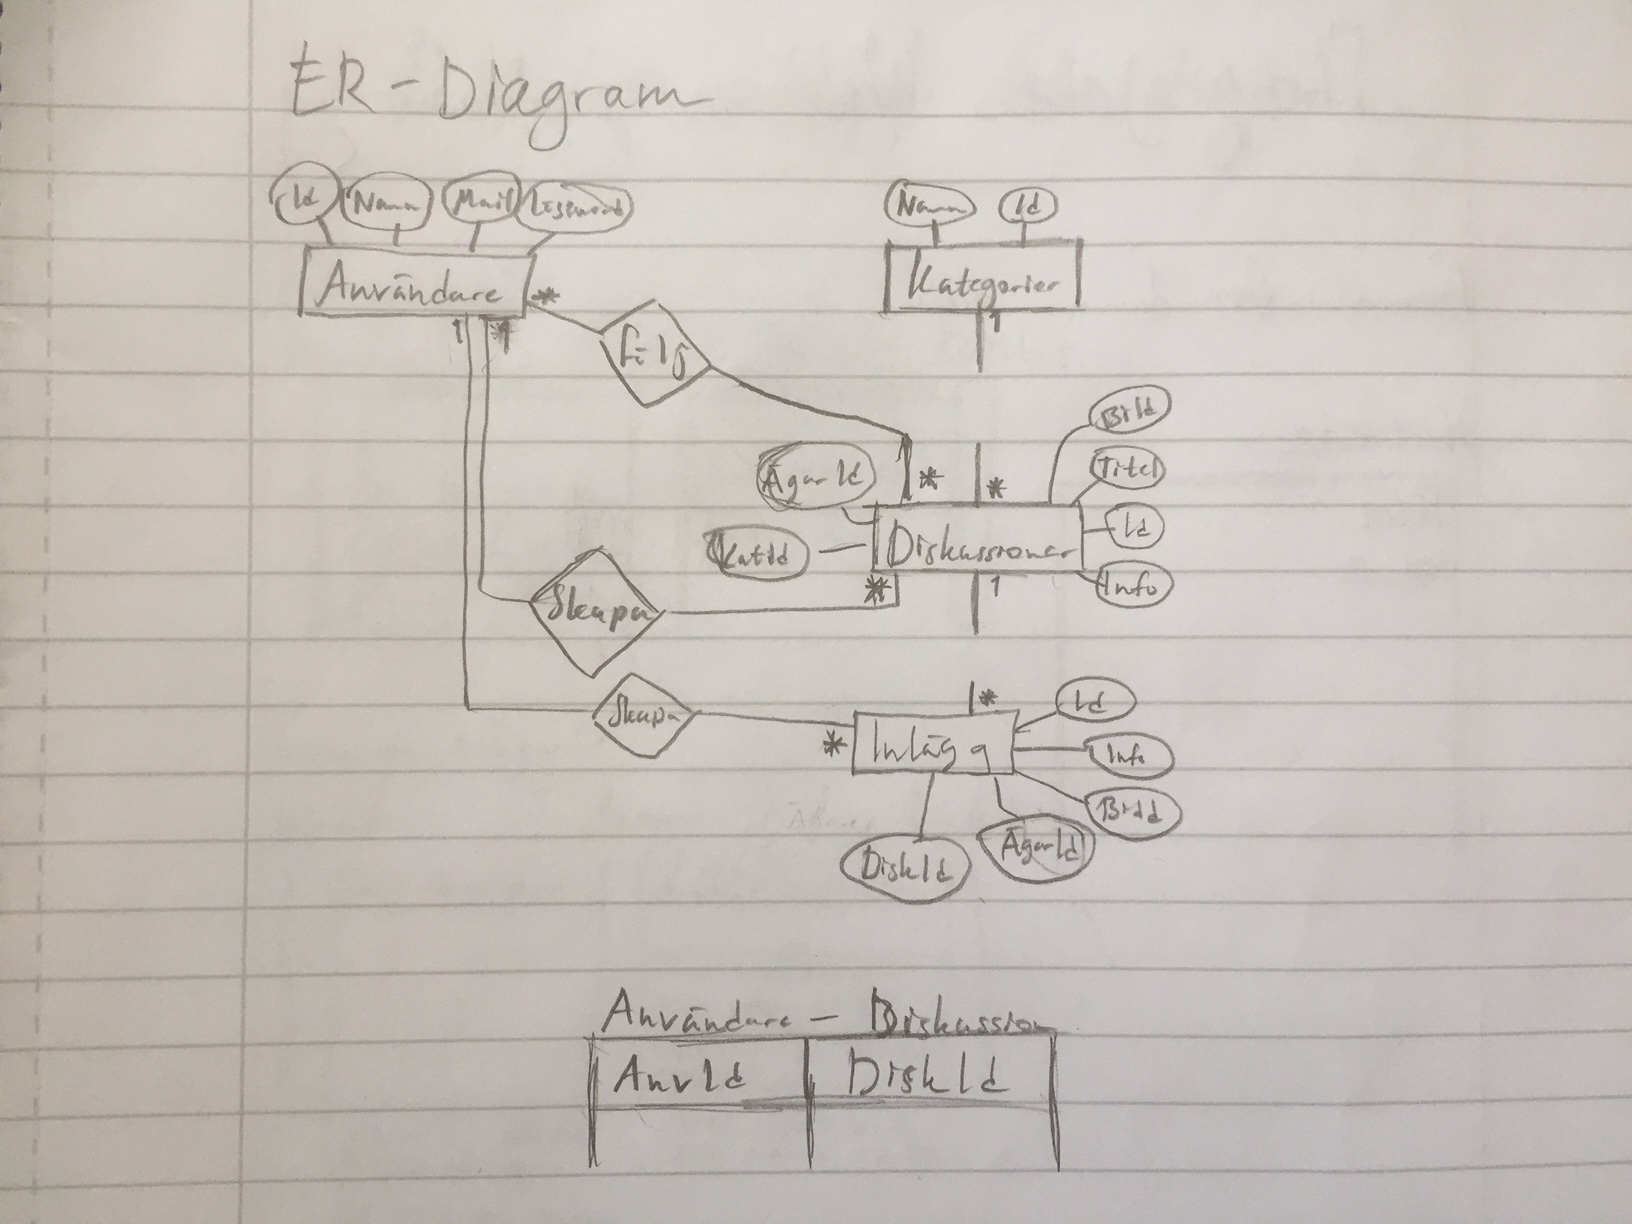
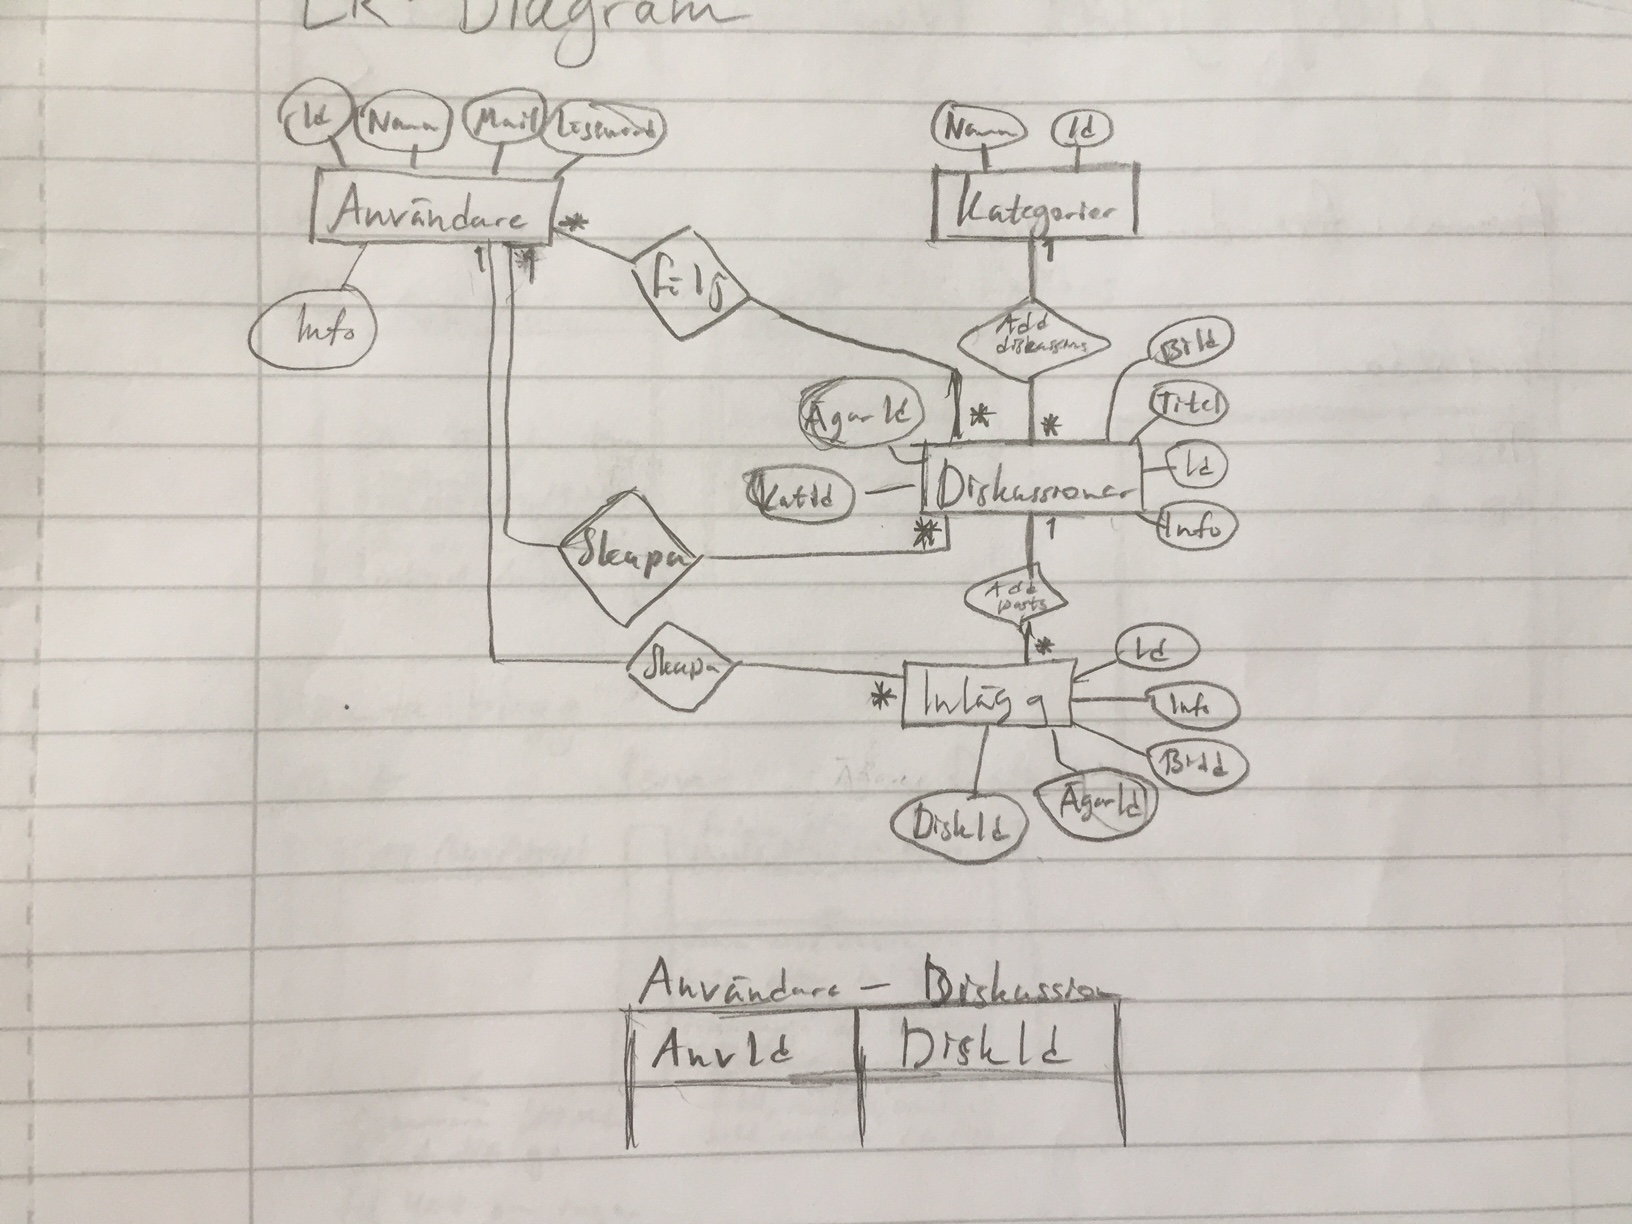
Funktionalitet skriven och små ändringar för registrering.

diff --git a/forumsida/model.rb b/forumsida/model.rb
@@ -83,7 +83,10 @@ end
 
 def register(params)
     db = connect()
-    if params["Username"] != "" && params["Password"] != "" && params["Mail"] != ""
+    if params["Username"] != "" && params["Password"] != "" && params["Mail"] != "" && params["Password"] == params["Password2"]
+        if db.execute('SELECT Id FROM Användare WHERE Namn=?, Mail=?', params["Username"], params["Mail"]) != []
+            return false
+        end
         db.execute('INSERT INTO Användare(Namn, Lösenord, Mail) VALUES (?, ?, ?)', params["Username"], BCrypt::Password.create(params["Password"]), params["Mail"])
         return true
     else

diff --git a/README.md b/README.md
@@ -13,7 +13,7 @@ hela sidan först
 * Hem: Den första sidan som man möts av när man surfar in. Här kan man nå inloggningssidan om man ej är inloggad, sin profilsida om man har loggat in samt även en sida där man kan hitta alla kategorier av diskussioner. Misslyckas man med att logga in skickas man till en ny inloggninssida, där en text som beskriver att inloggningen misslyckades visas.
 * Från inloggningssidan kan man dels logga in om man har ett konto eller ta sig till registreringssidan om man inte har ett konto.
 * På registreringssidan skriver man in sitt önskade användarnamn, sin email och sitt lösenord för att skapa ett konto. När man gjort det skickas man tillbaka till hem vyn, om registreringen lyckas.
-* På profilsidan kan man dels se alla sina kontouppgifter och även redigera dem om man är inloggad. Här kan man lägga in en liten beskrivning om sig själv så att andra användare vet vem man är. Alla användare kan kolla på varandras profilsidor, däremot kan man endast redigera sin egna. Lösenordet visas ej på denna sida.
+* På profilsidan kan man dels se alla sina kontouppgifter och även redigera dem om man är inloggad. Här kan man lägga in en liten beskrivning om sig själv så att andra användare vet vem man är. Alla användare kan kolla på varandras profilsidor, däremot kan man endast redigera sin egna. Lösenordet visas ej på denna sida. Profilen redigerar man från en separat sida.
 * Från profilsidan kan man nå en sida som visar alla diskussioner som man följer. Dessa är också länkade, och här kan man också välja att sluta följa de diskussioner man vill.
 * På kategorisidan visas alla typer av kategorier som diskussioner kan ordnas efter. Användare kan inte skapa nya kategorier.
 * När man surfat in på en kategori visas alla diskussioner som finns i denna, med deras respektive ägares profilsidor länkade. Användare kan skapa nya diskussioner som har en titel, lite information om diskussionen och eventuellt en bild. 
@@ -21,9 +21,14 @@ hela sidan först
 * För att redigera diskussionen skickas man till en ny sida där man fyller i ett formulär som liknar det som behövs för att skapa en ny diskussion. Om man inte ändrar på något så behålls det som det var.
 * För att redigera inlägg skickas man också till en ny sida där man fyller i ett formulär. Likväl så ändras inte inlägget om ingen ny information skrivs.
 
-## 3. Funktionalitet (med sekvensdiagram)
-
-För att säkerställa att lösenord inte blir knäckta använder jag mig av ruby biblioteket bcrypt. Detta konverterar insatta 
+## 3. Funktionalitet (med sekvensdiagram i misc för registrering och inlägg)
+* Inloggningssystem: Vid inloggning så skickar man sitt användarnamn och lösenord till servern. Servern jämför användarnamnet och det hashade lösenordet (görs med bcrypt biblioteket i ruby) med det som är sparat i databasen. Om det matchar skickas man till hemvyn och användarnamnet samt användarens id sparas i sessioner. Misslyckas det så får man försöka igen på en sida där det står att inloggning misslyckades.
+* Registrering: När man registrerar så skickar man sitt önskade användarnamn, lösenord (repeterat två gånger i separata fält) samt sin mailaddress. Om alla fält inte är ifyllda så registreras man inte. Sedan kollar servern om kontot redan är registrerat genom att försöka hämta ett användarid som är kopplat till det inskickade användarnamnet och mailaddressen. Om det ger ett resultat reistreras inte kontot. Om det inte ger ett resultat registreras användaren och skickas till inloggningssidan.
+* Utloggning: Från hemvyn så kan man klicka på en knapp som loggar ut en ifall man är inloggad. När detta sker så sätts användarnamnet och användarid i sessionen till nil.
+* Uppdatering av profil: Direkt från sin egna profilsida så kan man skicka in lite information om sig själv ifall man vill ge en beskrivning (denna kan vara tom). Är man inte inloggad, eller inte inne på sin egen profil, så visas formuläret ej. Stämmer det användarid som är sparat i sessionen överrens med profilen som man uppdaterars användarid så uppdateras databasen. Annars ges felkoden 403 (forbidden action). Från profilsidan kan man även ta sig till en sida där man kan uppdatera sitt lösenord, mailaddress eller användarnamn. Man behöver inte skicka in alla samtidigt, uppdaterar man exempelvis endast lösenordet så uppdateras bara detta i databasen. För att göra en uppdatering behöver man skriva in sitt nuvarande lösenord längst ned i formuläret. Är man inte inloggad eller försöker ändra en annan användares inloggninsuppgifter så ges felkod 403.
+* Följ diskussion: När man är inne på en diskussion så kan man klicka i en knapp för att följa den. Då skickas ens användarid och diskussionens id (där man befinner sig) in i databasen, vilket kopplar diskussionens id till ens användarid. Är man inte inloggad går detta ej att genomföra. Från ens profilsida kan man nå alla diskussioner som man följer. Härifrån kan man även sluta följa diskussioner, vilket då tar bort kopplingen mellan den aktuella diskussionens id och användarid i databasen.
+* Diskussioner: När man skapar en diskussion behöver man ge den en titel och lite information om den. Eventuellt kan man även lägga till en bild till diskussionen. Är man inloggad så skapas då diskussionen. Om man är inne på en diskussion som man själv lagt upp så kan man ta bort den därifrån. Är man inte inloggad på rätt konto när man försöker ta bort en diskussion ges felkod 403. Från en diskussion så kan man även nå profilen till ägaren av diskussionen. Om en diskussion raderas så raderas även alla inlägg till denna diskussion från databasen. Man kan också redigera en diskussion om man är ägaren till den. Man kan redigera diskussionens titel, information samt dess eventuella bild.
+* Inlägg: För att skapa ett inlägg behöver man vara inloggad. Ett inlägg behöver endast ha lite information för att läggas upp, det kan också innehålla en bild. När inlägget väl är upplagt så kan man ta bort det från diskussionssidan. Endast den användare som lagt upp inlägget kan ta bort det, om inte den aktuella diskussionen tas bort för då raderas också alla tillhörande inlägg. Inlägg kan liksom diskussioner också redigeras om man är inloggad på rätt användare.
 
 ## 4. Arkitektur (Beskriv filer och mappar)
 ### Mappar:
@@ -40,7 +45,8 @@ För att säkerställa att lösenord inte blir knäckta använder jag mig av rub
 * createdisc.slim: Genererar html åt vyn som man når när man vill skapa en ny diskussion.
 * discussion.slim: Den fil som genererar html åt vyn där en diskussion och dess inlägg visas.
 * editdisc.slim: Genererar html åt vyn där man kan redigera en diskussion.
-* editpost.slim: Filen som genererar html åt vun där man kan redigera ett inlägg.
+* editpost.slim: Filen som genererar html åt vyn där man kan redigera ett inlägg.
+* editprofile.slim: Den fil som genererar html åt vyn där man kan redigera sin användares namn, lösenord och mailaddress.
 * home.slim: Genererar html åt hemvyn.
 * layout.slim: Ett tillägg till alla andra slimfiler. Denna lägger till en html head till alla filer så att allt de har gemensamt endast behöver skrivas en gång.
 * login.slim: Genererar html till loginvyn.
@@ -50,4 +56,4 @@ För att säkerställa att lösenord inte blir knäckta använder jag mig av rub
 * signup.slim: Genererar html till registreringsvyn.
 
 ## 5. (Databas med ER-diagram)
-* Ofärdigt ER diagram finns i misc.
+* ER diagram finns i misc.
